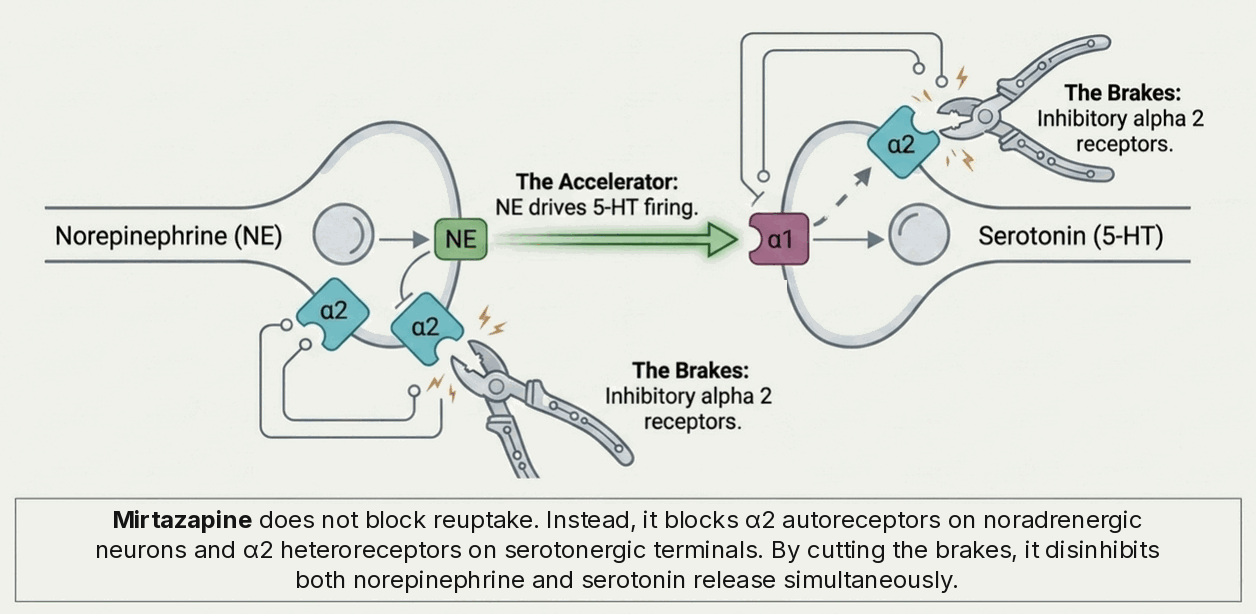
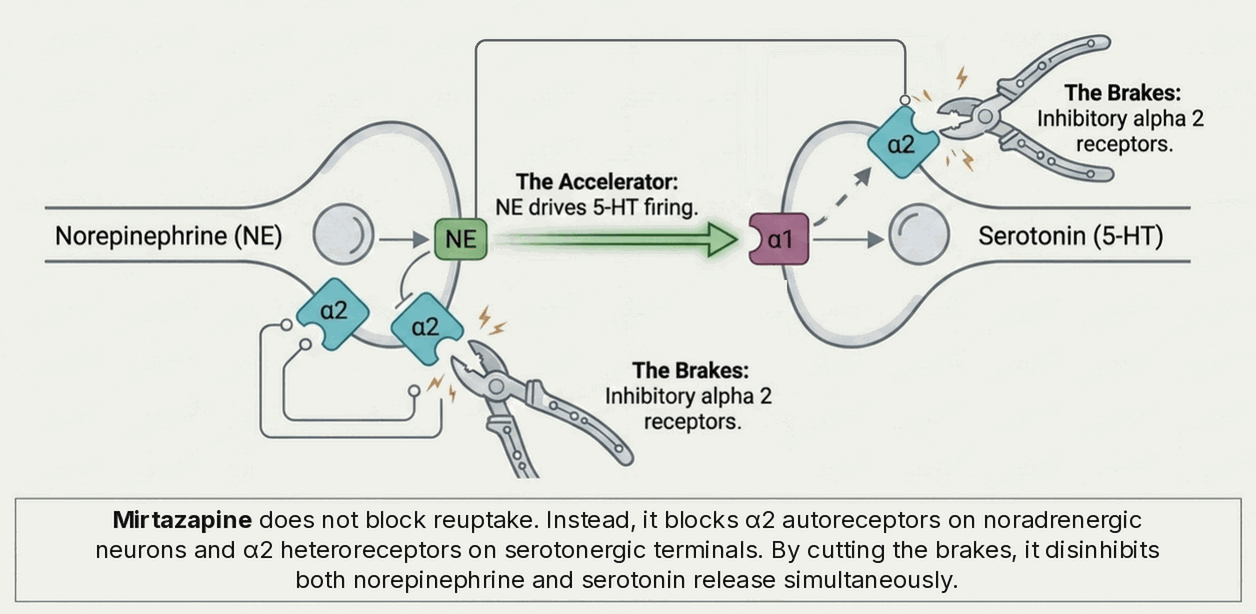
Round 30: mirtazapine NE-driven heteroreceptor loop, raphe nuclei moved to brainstem
Claude-Session: https://claude.ai/code/session_013nqhh8jxAgmBbbmbWecg3q

Changed region(s): [[0.3726, 0.0309, 0.7452, 0.3404], [0.7452, 0.1238, 0.7763, 0.1547], [0.7142, 0.1547, 0.7452, 0.1857]]

diff --git a/hugo-site/content/blog/neurotransmitters-receptors.html b/hugo-site/content/blog/neurotransmitters-receptors.html
@@ -1346,8 +1346,8 @@ L 159.3 58.0
 
           <figure class="atlas-fig">
             <picture>
-              <source srcset="/blog/img/atlas/serotonin-receptor-map.webp?v=20261002" type="image/webp">
-              <img src="/blog/img/atlas/serotonin-receptor-map.png?v=20261002" alt="Serotonin receptor localization map linking 5-HT1A, 5-HT2C, 5-HT2A, and 5-HT3 receptors to brain regions and clinical effects" width="1255" height="605" loading="lazy" style="width:100%;height:auto;max-width:820px;display:block;margin:0 auto;border:1px solid var(--border);border-radius:8px;">
+              <source srcset="/blog/img/atlas/serotonin-receptor-map.webp?v=20261002b" type="image/webp">
+              <img src="/blog/img/atlas/serotonin-receptor-map.png?v=20261002b" alt="Serotonin receptor localization map linking 5-HT1A, 5-HT2C, 5-HT2A, and 5-HT3 receptors to brain regions and clinical effects" width="1255" height="605" loading="lazy" style="width:100%;height:auto;max-width:820px;display:block;margin:0 auto;border:1px solid var(--border);border-radius:8px;">
             </picture>
             <figcaption>Serotonin receptor geography. From the raphe nuclei, serotonin acts through different receptors in different places: 5-HT<sub>1A</sub> in prefrontal and limbic cortex (mood, anxiety), 5-HT<sub>2C</sub> in the hypothalamus (appetite, weight), 5-HT<sub>2A</sub> on cortical pyramidal cells (hallucinations, psychosis), and 5-HT<sub>3</sub> in the gut and area postrema (nausea, vomiting).</figcaption>
           </figure>
@@ -1404,8 +1404,8 @@ L 159.3 58.0
 
           <figure class="atlas-fig">
             <picture>
-              <source srcset="/blog/img/atlas/mirtazapine-crosstalk.webp?v=20261002" type="image/webp">
-              <img src="/blog/img/atlas/mirtazapine-crosstalk.png?v=20261002" alt="Norepinephrine-serotonin crosstalk showing the alpha-2 autoreceptor brake on noradrenergic neurons and the alpha-2 heteroreceptor brake on serotonergic terminals, both blocked by mirtazapine" width="1256" height="614" loading="lazy" style="width:100%;height:auto;max-width:820px;display:block;margin:0 auto;border:1px solid var(--border);border-radius:8px;">
+              <source srcset="/blog/img/atlas/mirtazapine-crosstalk.webp?v=20261002b" type="image/webp">
+              <img src="/blog/img/atlas/mirtazapine-crosstalk.png?v=20261002b" alt="Norepinephrine-serotonin crosstalk showing the alpha-2 autoreceptor brake on noradrenergic neurons and the alpha-2 heteroreceptor brake on serotonergic terminals, both blocked by mirtazapine" width="1256" height="614" loading="lazy" style="width:100%;height:auto;max-width:820px;display:block;margin:0 auto;border:1px solid var(--border);border-radius:8px;">
             </picture>
             <figcaption>NE&#8211;5-HT crosstalk. Excitatory &#945;&#8321; drive from noradrenergic neurons increases raphe 5-HT firing; inhibitory &#945;&#8322; autoreceptors on noradrenergic neurons and &#945;&#8322; heteroreceptors on serotonergic terminals brake NE and 5-HT release — the &#945;&#8322; sites mirtazapine blocks.</figcaption>
           </figure>

diff --git a/blog/neurotransmitters-receptors.html b/blog/neurotransmitters-receptors.html
@@ -1492,8 +1492,8 @@ L 159.3 58.0
 
           <figure class="atlas-fig">
             <picture>
-              <source srcset="atlas-media/serotonin-receptor-map.webp?v=20261002" type="image/webp">
-              <img src="atlas-media/serotonin-receptor-map.png?v=20261002" alt="Serotonin receptor localization map linking 5-HT1A, 5-HT2C, 5-HT2A, and 5-HT3 receptors to brain regions and clinical effects" width="1255" height="605" loading="lazy" style="width:100%;height:auto;max-width:820px;display:block;margin:0 auto;border:1px solid var(--border);border-radius:8px;">
+              <source srcset="atlas-media/serotonin-receptor-map.webp?v=20261002b" type="image/webp">
+              <img src="atlas-media/serotonin-receptor-map.png?v=20261002b" alt="Serotonin receptor localization map linking 5-HT1A, 5-HT2C, 5-HT2A, and 5-HT3 receptors to brain regions and clinical effects" width="1255" height="605" loading="lazy" style="width:100%;height:auto;max-width:820px;display:block;margin:0 auto;border:1px solid var(--border);border-radius:8px;">
             </picture>
             <figcaption>Serotonin receptor geography. From the raphe nuclei, serotonin acts through different receptors in different places: 5-HT<sub>1A</sub> in prefrontal and limbic cortex (mood, anxiety), 5-HT<sub>2C</sub> in the hypothalamus (appetite, weight), 5-HT<sub>2A</sub> on cortical pyramidal cells (hallucinations, psychosis), and 5-HT<sub>3</sub> in the gut and area postrema (nausea, vomiting).</figcaption>
           </figure>
@@ -1550,8 +1550,8 @@ L 159.3 58.0
 
           <figure class="atlas-fig">
             <picture>
-              <source srcset="atlas-media/mirtazapine-crosstalk.webp?v=20261002" type="image/webp">
-              <img src="atlas-media/mirtazapine-crosstalk.png?v=20261002" alt="Norepinephrine-serotonin crosstalk showing the alpha-2 autoreceptor brake on noradrenergic neurons and the alpha-2 heteroreceptor brake on serotonergic terminals, both blocked by mirtazapine" width="1256" height="614" loading="lazy" style="width:100%;height:auto;max-width:820px;display:block;margin:0 auto;border:1px solid var(--border);border-radius:8px;">
+              <source srcset="atlas-media/mirtazapine-crosstalk.webp?v=20261002b" type="image/webp">
+              <img src="atlas-media/mirtazapine-crosstalk.png?v=20261002b" alt="Norepinephrine-serotonin crosstalk showing the alpha-2 autoreceptor brake on noradrenergic neurons and the alpha-2 heteroreceptor brake on serotonergic terminals, both blocked by mirtazapine" width="1256" height="614" loading="lazy" style="width:100%;height:auto;max-width:820px;display:block;margin:0 auto;border:1px solid var(--border);border-radius:8px;">
             </picture>
             <figcaption>NE&#8211;5-HT crosstalk. Excitatory &#945;&#8321; drive from noradrenergic neurons increases raphe 5-HT firing; inhibitory &#945;&#8322; autoreceptors on noradrenergic neurons and &#945;&#8322; heteroreceptors on serotonergic terminals brake NE and 5-HT release — the &#945;&#8322; sites mirtazapine blocks.</figcaption>
           </figure>
